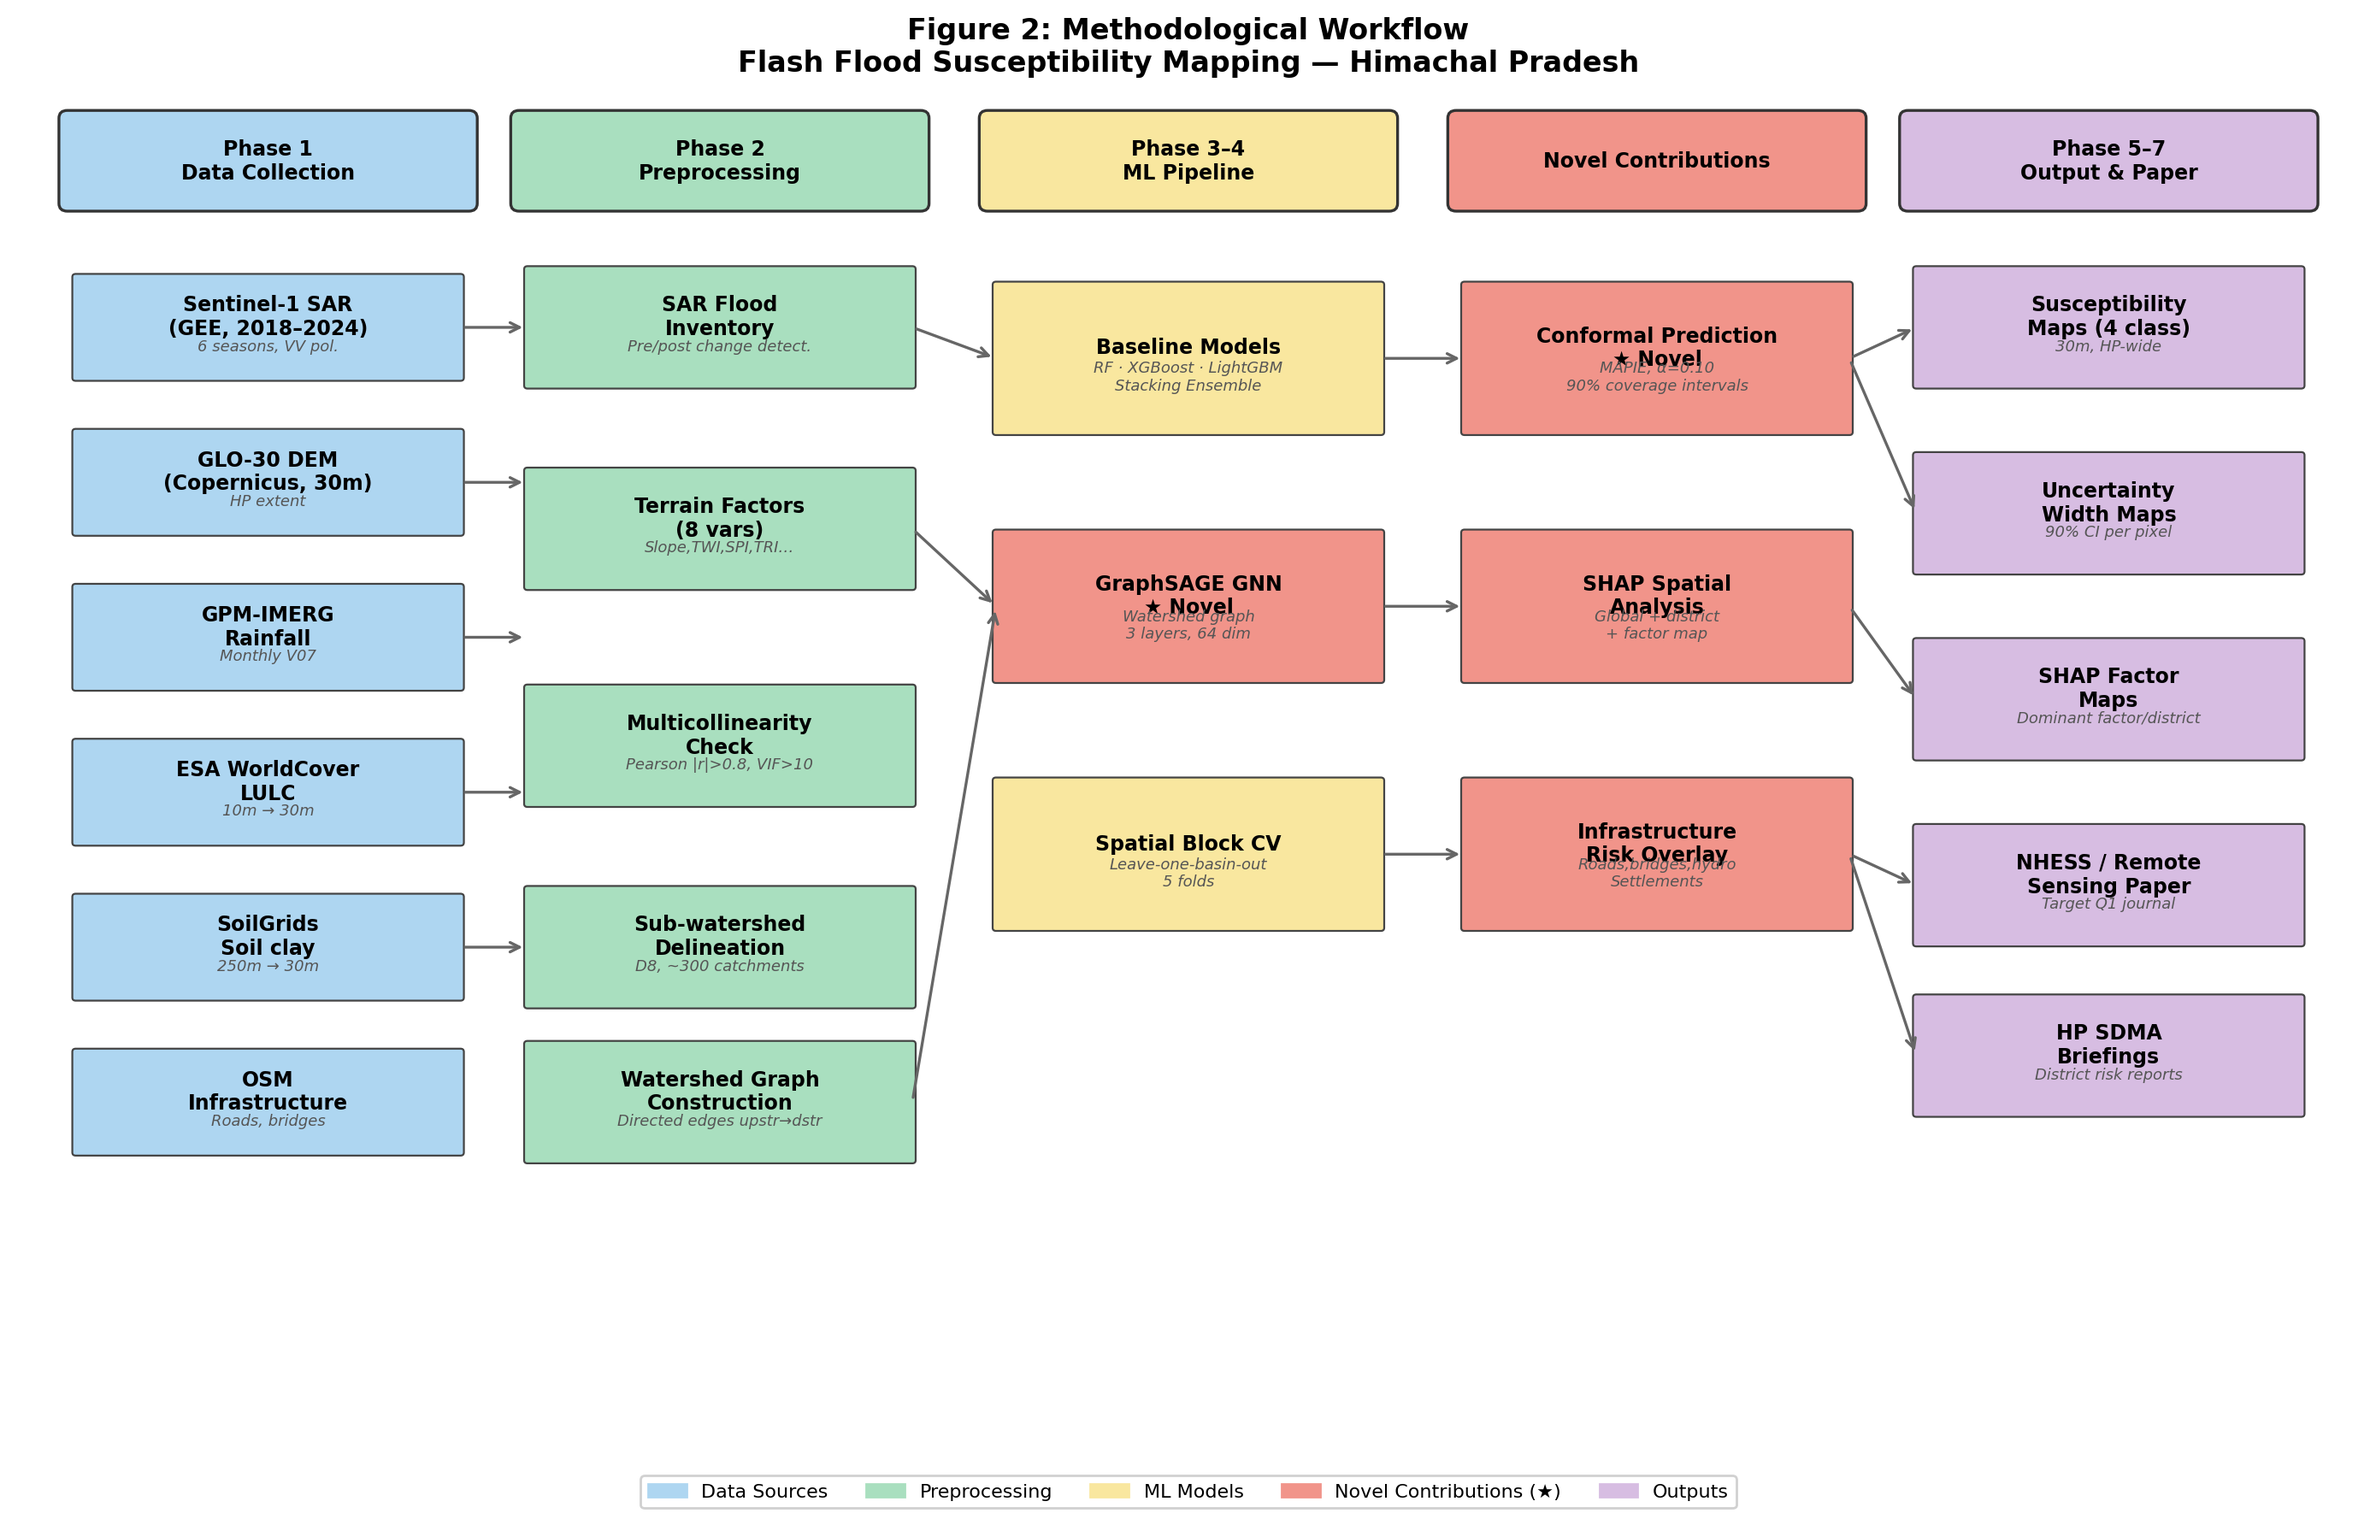
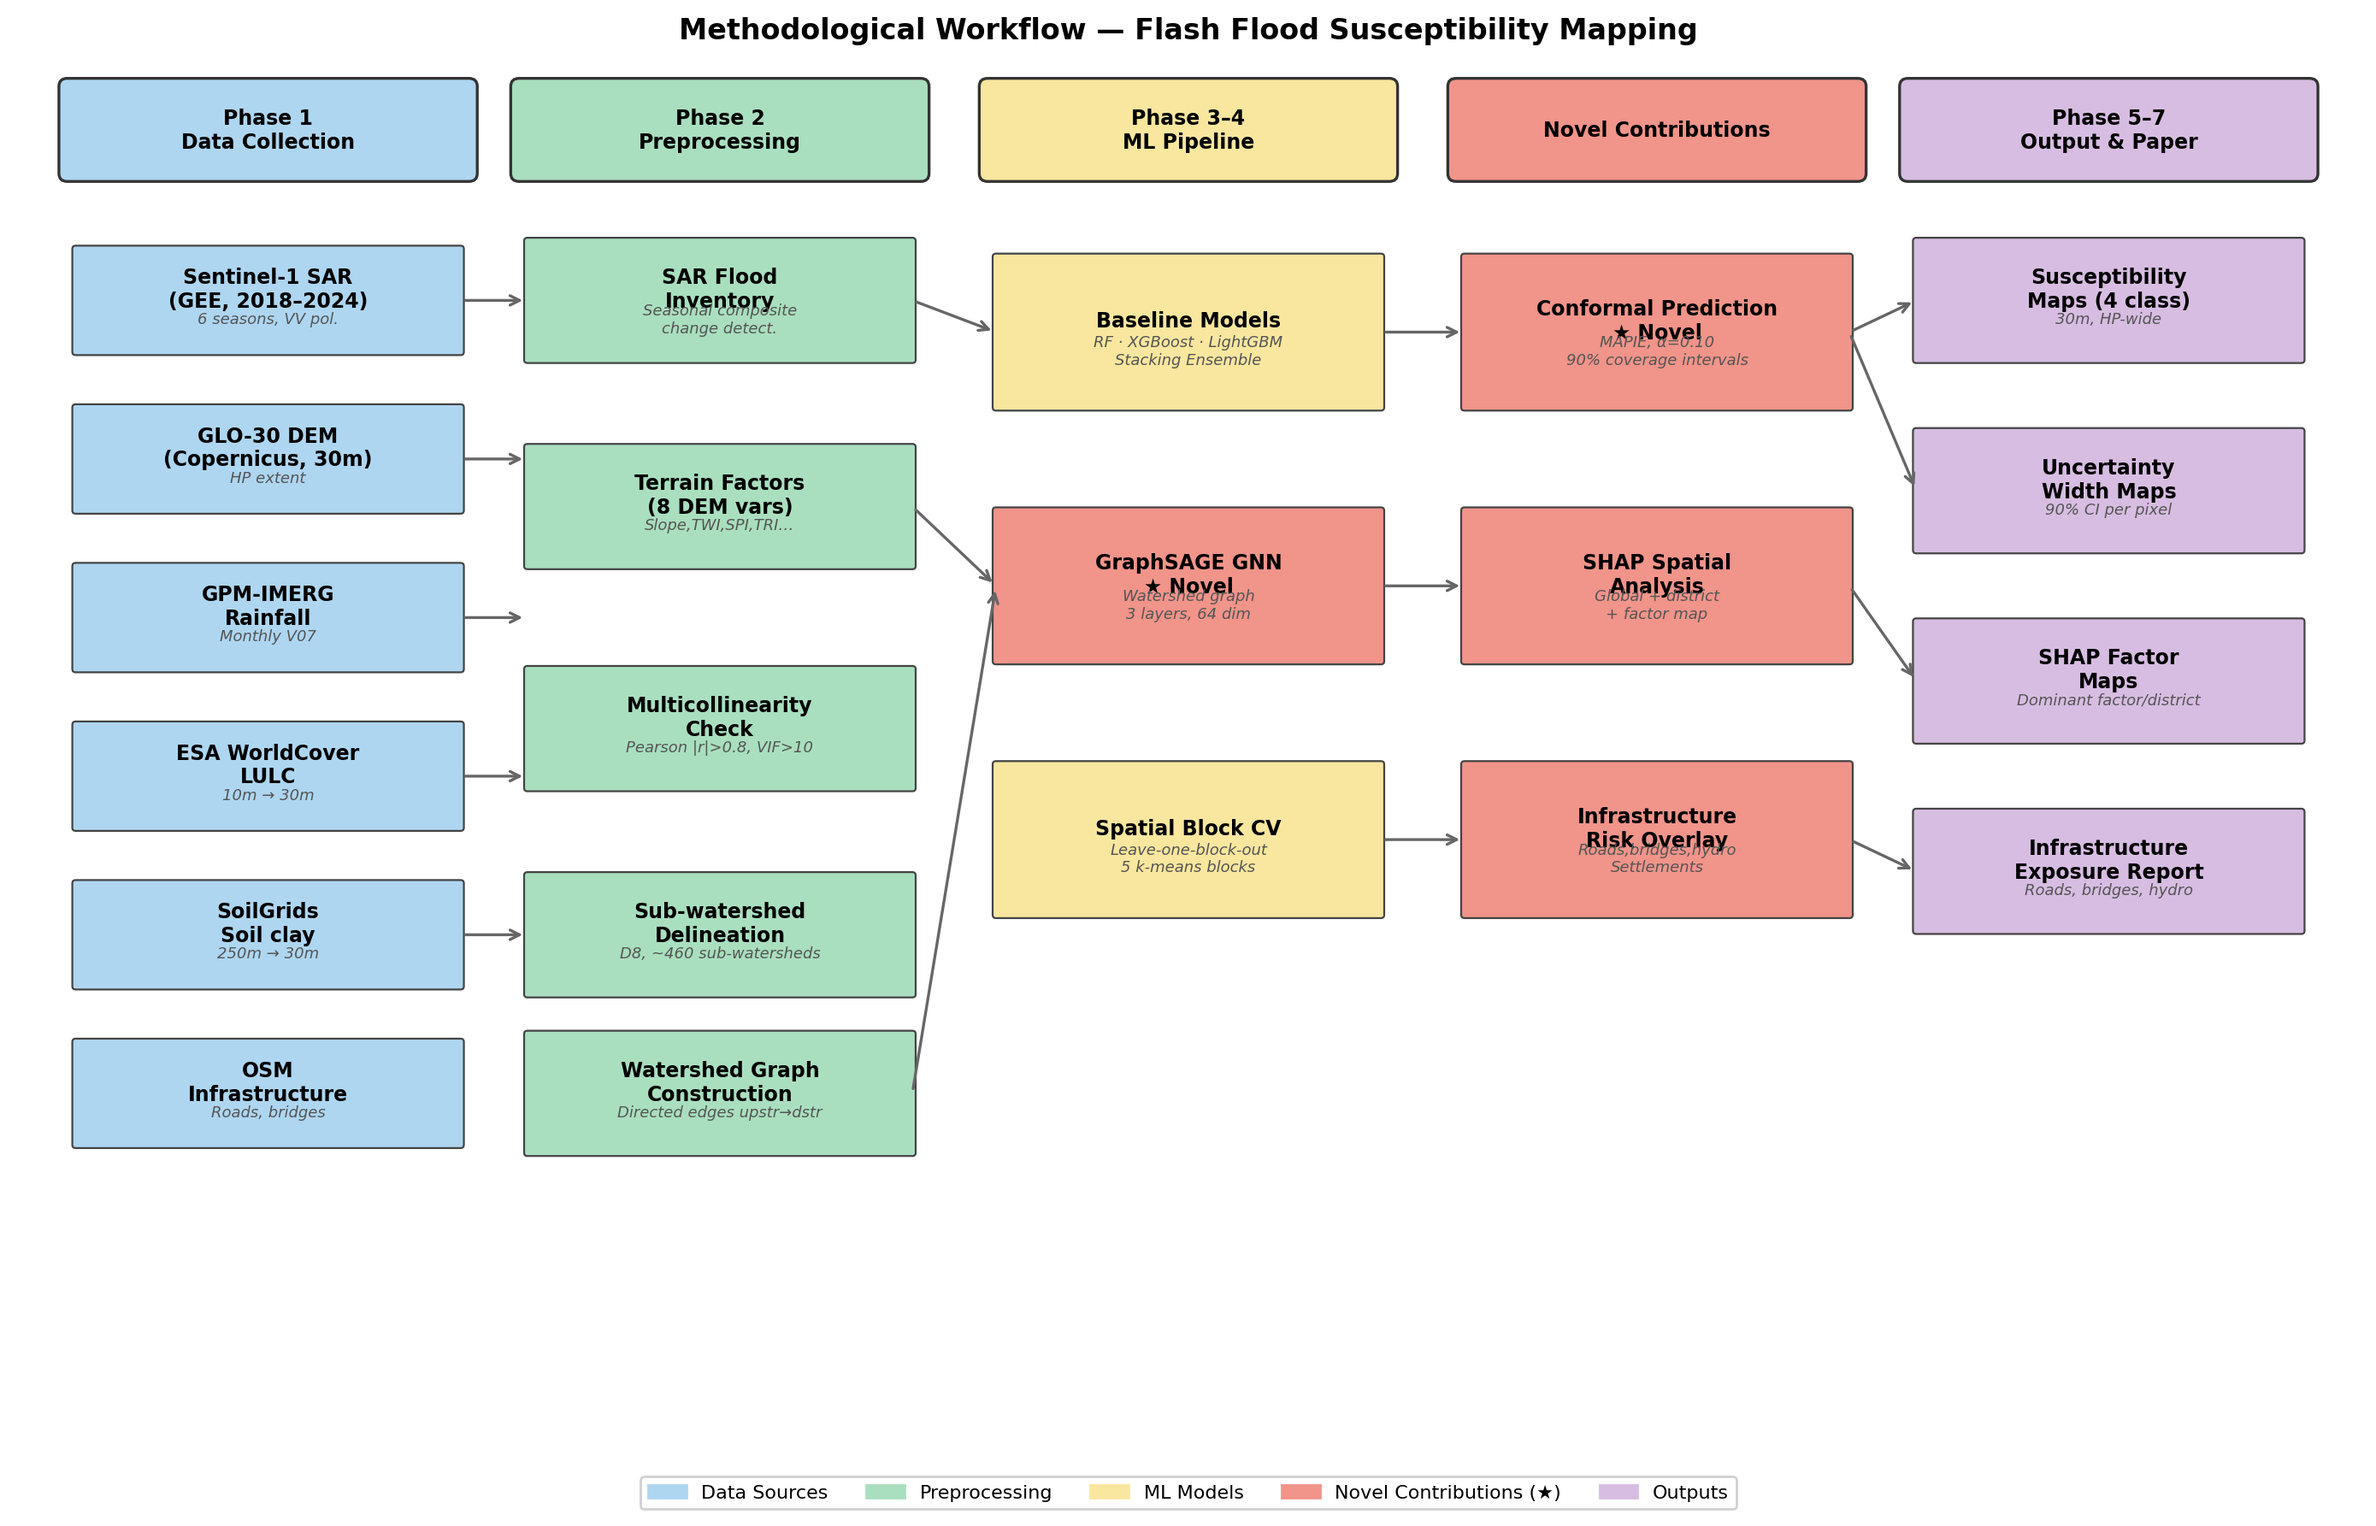
Update model comparison tables and figures for improved clarity and accuracy

Changed region(s): [[0.0, 0.0, 0.9903, 0.7707], [0.588, 0.37, 0.6189, 0.4008], [0.588, 0.2158, 0.6189, 0.2466]]

diff --git a/results/paper_figures/table_model_comparison.tex b/results/paper_figures/table_model_comparison.tex
@@ -1,15 +1,15 @@
 \begin{table}
-\caption{Model performance comparison (spatial block CV and temporal validation).}
-\label{tab:model_comparison}
-\begin{tabular}{lllll}
+\caption{Model performance under 5-fold spatial block CV.}
+\label{tab:model_comparison_auto}
+\begin{tabular}{llll}
 \toprule
-Model & AUC (CV) & F1 (CV) & AUC (2023) & F1 (2023) \\
+Model & AUC (mean ± SD) & F1 (mean) & Kappa (mean) \\
 \midrule
-RF & 0.820 ± 0.025 & 0.710 ± 0.019 & 0.776 & 0.672 \\
-XGBoost & 0.850 ± 0.012 & 0.740 ± 0.030 & 0.810 & 0.699 \\
-LightGBM & 0.840 ± 0.013 & 0.730 ± 0.019 & 0.815 & 0.683 \\
-Stacking Ensemble & 0.870 ± 0.023 & 0.770 ± 0.026 & 0.842 & 0.751 \\
-GNN-GraphSAGE & 0.910 ± 0.021 & 0.830 ± 0.011 & 0.867 & 0.795 \\
+RF & 0.880 ± 0.088 & 0.548 & 0.403 \\
+XGBoost & 0.871 ± 0.089 & 0.436 & 0.327 \\
+LightGBM & 0.870 ± 0.100 & 0.482 & 0.366 \\
+Stacking & 0.881 ± 0.087 & 0.144 & 0.091 \\
+GNN-GraphSAGE & 0.978 ± 0.017 & 0.773 & 0.640 \\
 \bottomrule
 \end{tabular}
 \end{table}
